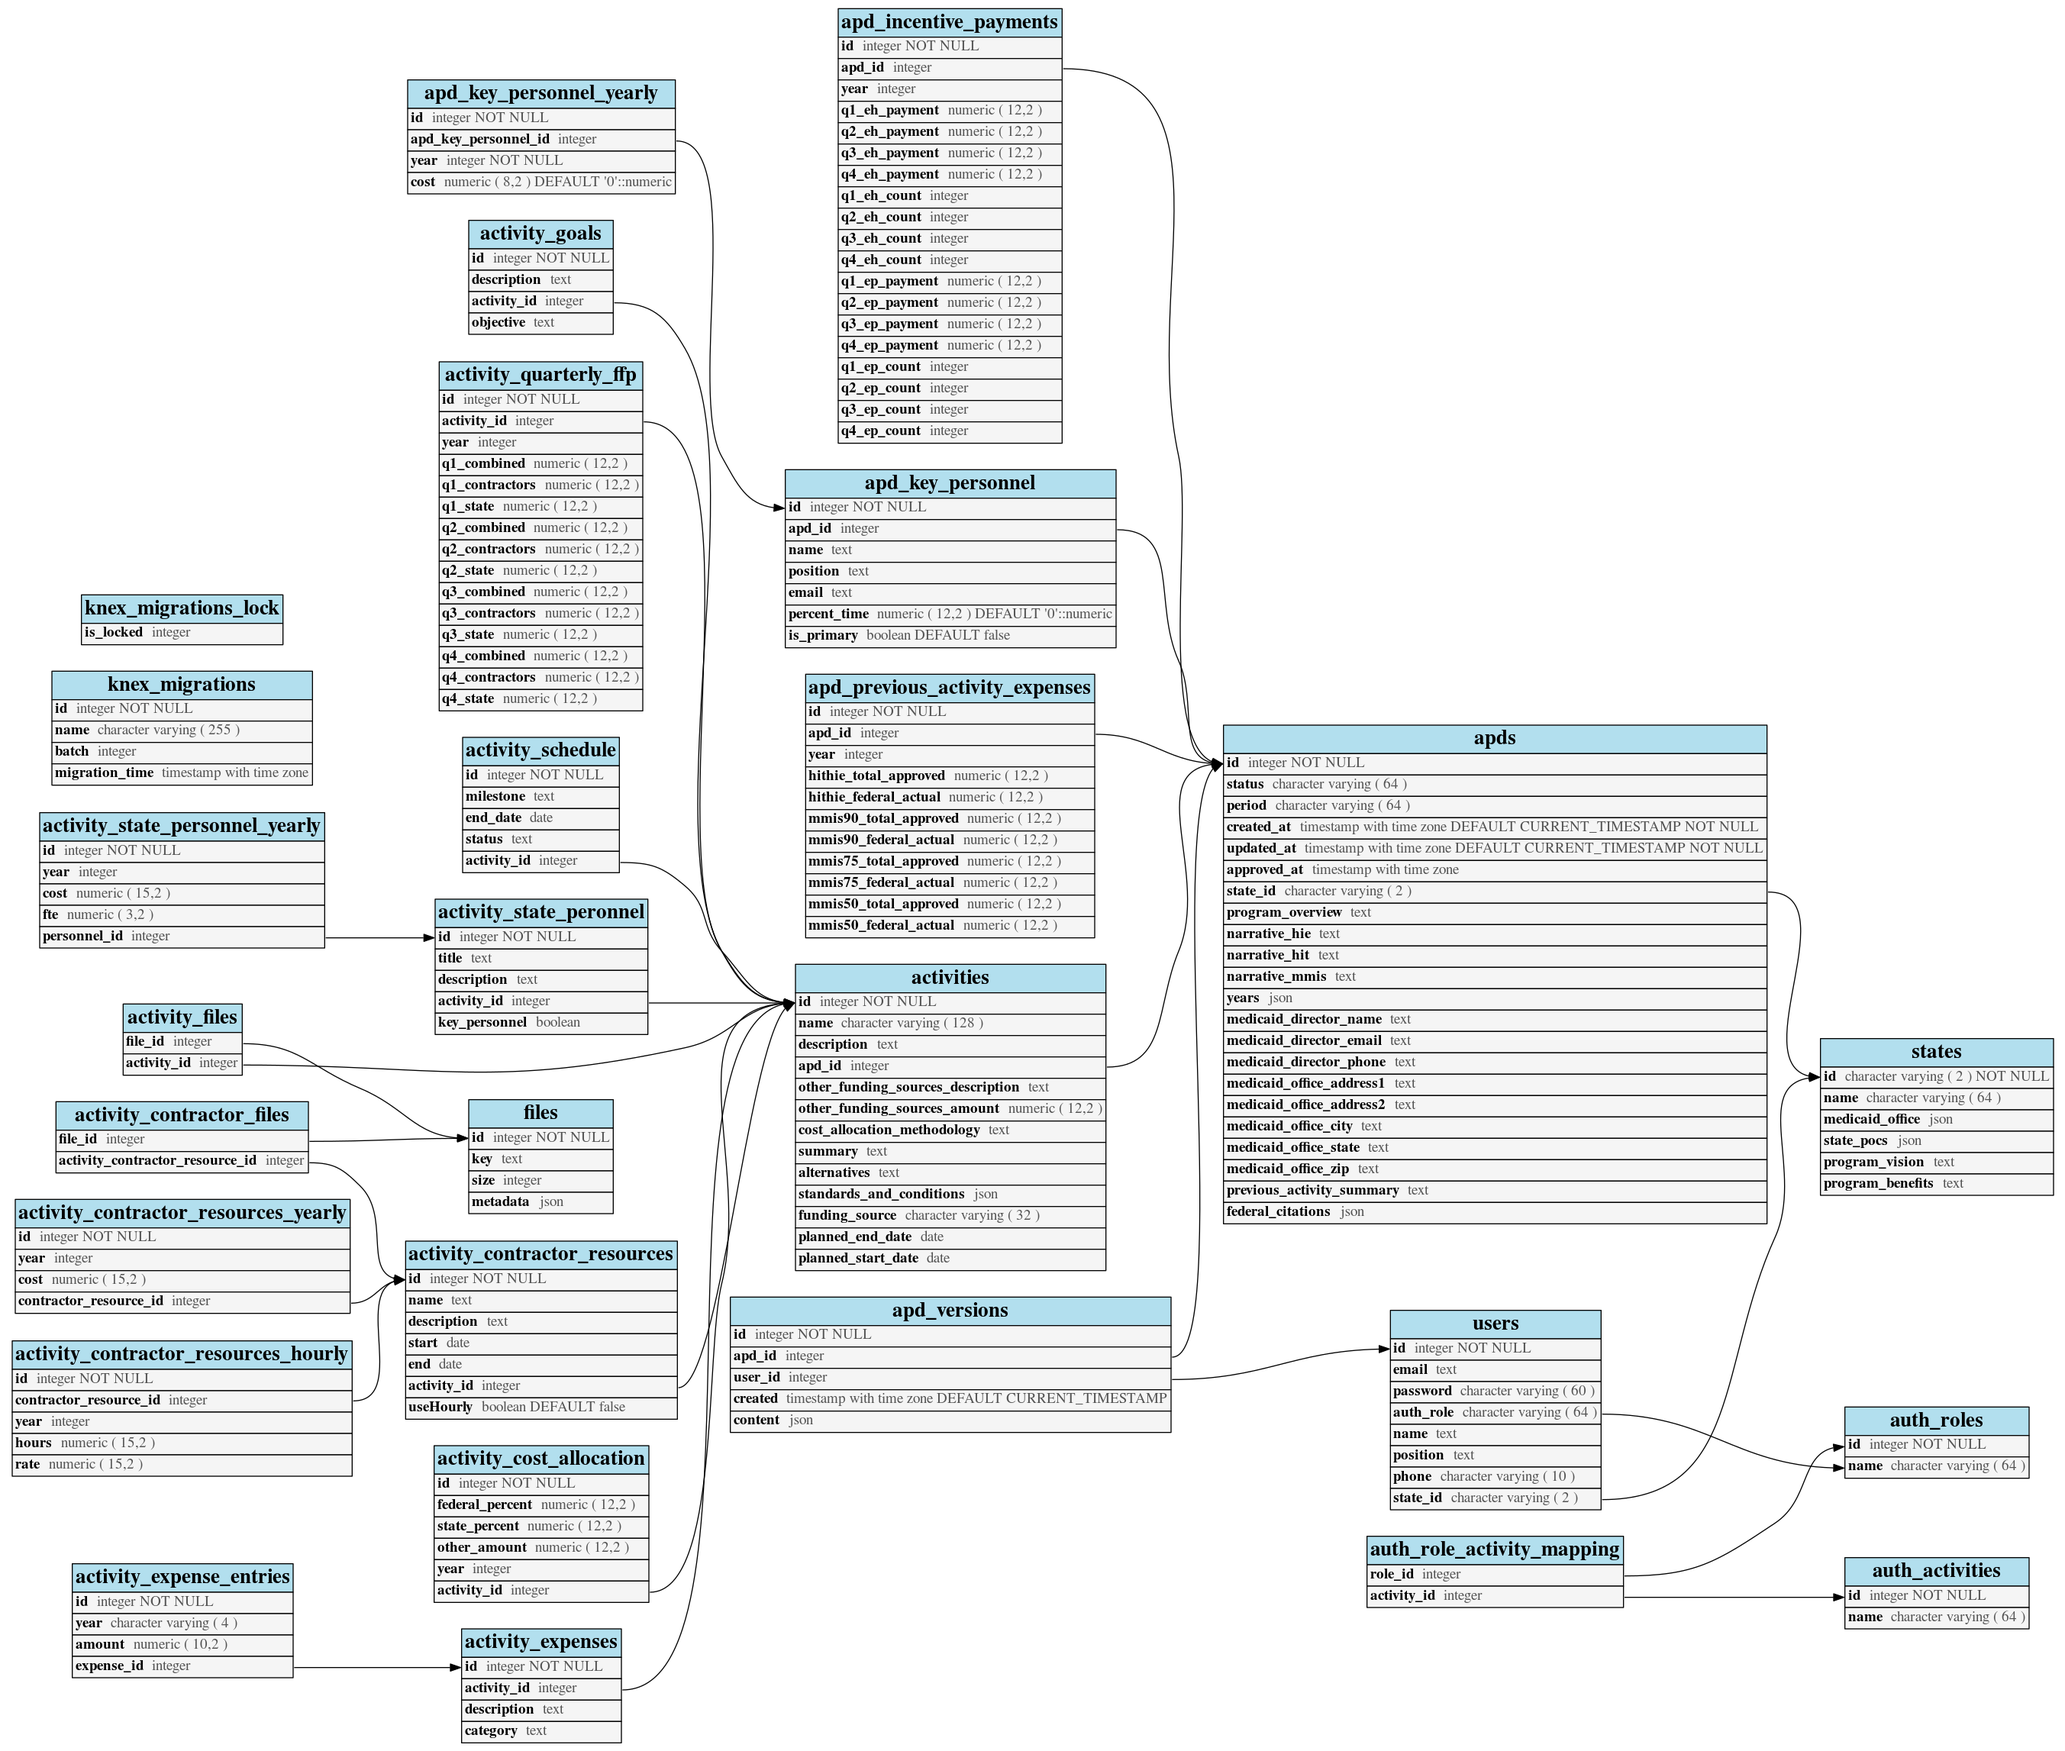
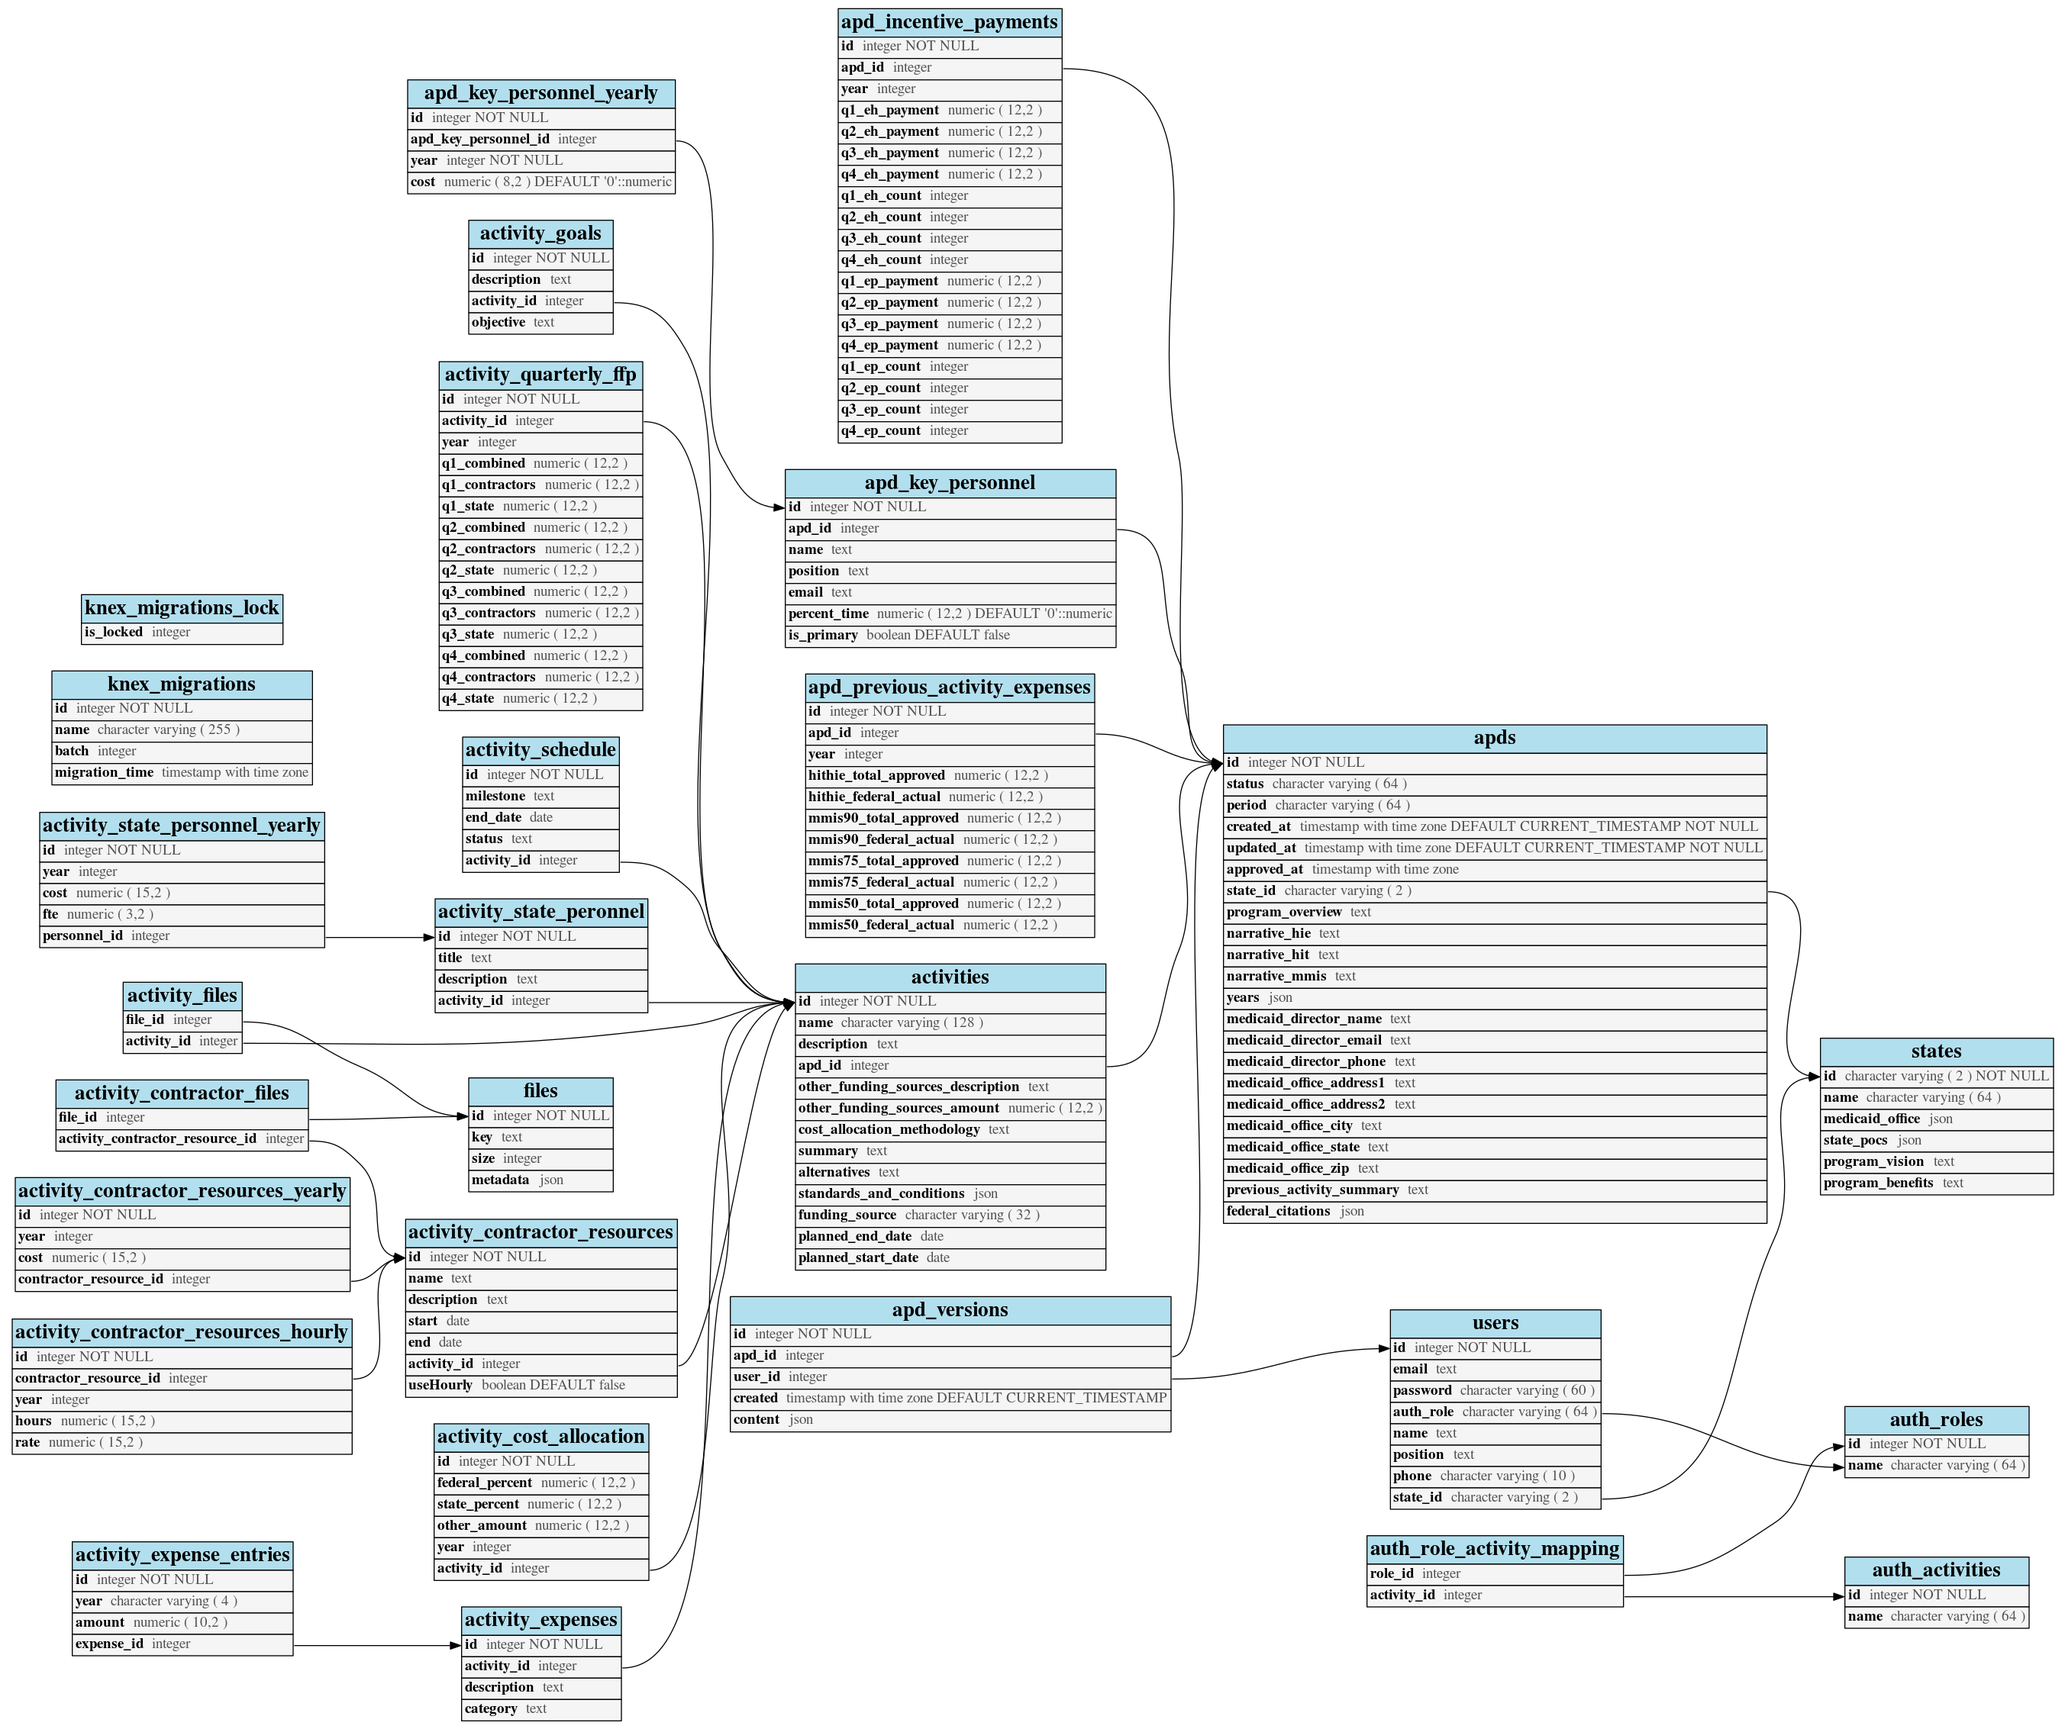
remove key personnel from activity

diff --git a/web/src/containers/activity/StatePersonnel.js b/web/src/containers/activity/StatePersonnel.js
@@ -16,14 +16,7 @@ import { SubsectionChunk } from '../../components/Section';
 import { t } from '../../i18n';
 import { formatDec, formatMoney } from '../../util/formats';
 
-const PersonnelForm = ({
-  person,
-  idx,
-  years,
-  handleChange,
-  handleKeyPersonnel,
-  handleDelete
-}) => (
+const PersonnelForm = ({ person, idx, years, handleChange, handleDelete }) => (
   <div className="mt2 mb3">
     <Btn
       kind="outline"
@@ -42,25 +35,6 @@ const PersonnelForm = ({
         wrapperClass="md-col-7 lg-col-6"
         hideLabel
       />
-    </div>
-    <div className="mb3 md-flex">
-      <Label>Key Personnel</Label>
-      <div>
-        <Btn
-          kind="outline"
-          extraCss={person.isKeyPersonnel ? 'bg-black white' : ''}
-          onClick={handleKeyPersonnel(idx, true)}
-        >
-          Yes
-        </Btn>{' '}
-        <Btn
-          kind="outline"
-          extraCss={person.isKeyPersonnel ? '' : 'bg-black white'}
-          onClick={handleKeyPersonnel(idx, false)}
-        >
-          No
-        </Btn>
-      </div>
     </div>
     <div className="mb3 md-flex">
       <Label>{t('activities.statePersonnel.labels.desc')}</Label>
@@ -106,7 +80,6 @@ PersonnelForm.propTypes = {
   idx: PropTypes.number.isRequired,
   years: PropTypes.array.isRequired,
   handleChange: PropTypes.func.isRequired,
-  handleKeyPersonnel: PropTypes.func.isRequired,
   handleDelete: PropTypes.func.isRequired
 };
 
@@ -130,12 +103,6 @@ class StatePersonnel extends Component {
       { statePersonnel: { [index]: toUpdate } },
       field === 'amt' || field === 'perc'
     );
-  };
-
-  handleKeyPersonnel = (index, bool) => () => {
-    const { activityKey, updateActivity } = this.props;
-    const updates = { statePersonnel: { [index]: { isKeyPersonnel: bool } } };
-    updateActivity(activityKey, updates);
   };
 
   handleAdd = () => {
@@ -182,7 +149,6 @@ class StatePersonnel extends Component {
                   idx={i}
                   years={years}
                   handleChange={this.handleChange}
-                  handleKeyPersonnel={this.handleKeyPersonnel}
                   handleDelete={this.getDeleter(person.key)}
                 />
               )}
@@ -218,4 +184,7 @@ const mapDispatchToProps = {
   updateActivity: updateActivityAction
 };
 
-export default connect(mapStateToProps, mapDispatchToProps)(StatePersonnel);
+export default connect(
+  mapStateToProps,
+  mapDispatchToProps
+)(StatePersonnel);

diff --git a/web/src/util/serialization/activities.test.js b/web/src/util/serialization/activities.test.js
@@ -53,7 +53,6 @@ describe('APD activity serializer', () => {
             id: 'person 1',
             title: 'job title 1',
             description: 'desc 1',
-            keyPersonnel: false,
             years: [
               { year: '2018', cost: 100, fte: 0.5 },
               { year: '2019', cost: 200, fte: 0.8 }
@@ -63,7 +62,6 @@ describe('APD activity serializer', () => {
             id: 'person 2',
             title: 'job title 2',
             description: 'desc 2',
-            keyPersonnel: false,
             years: [
               { year: '2018', cost: 300, fte: 0.3 },
               { year: '2019', cost: 400, fte: 0.6 }
@@ -234,7 +232,6 @@ describe('APD activity serializer', () => {
               key: expect.stringMatching(/[a-f0-9]{8}/),
               title: 'job title 1',
               desc: 'desc 1',
-              isKeyPersonnel: false,
               years: {
                 2018: { amt: 100, perc: 0.5 },
                 2019: { amt: 200, perc: 0.8 }
@@ -245,7 +242,6 @@ describe('APD activity serializer', () => {
               key: expect.stringMatching(/[a-f0-9]{8}/),
               title: 'job title 2',
               desc: 'desc 2',
-              isKeyPersonnel: false,
               years: {
                 2018: { amt: 300, perc: 0.3 },
                 2019: { amt: 400, perc: 0.6 }
@@ -419,7 +415,7 @@ describe('APD activity serializer', () => {
             id: 'eugene',
             title: 'Boss',
             desc: 'friend of the show',
-            isKeyPersonnel: false,
+
             years: {
               '2009': {
                 amt: 99,
@@ -564,7 +560,6 @@ describe('APD activity serializer', () => {
             id: 'eugene',
             title: 'Boss',
             description: 'friend of the show',
-            keyPersonnel: false,
             years: [
               {
                 cost: 99,

diff --git a/web/src/reducers/activities.js b/web/src/reducers/activities.js
@@ -45,7 +45,6 @@ const newStatePerson = years => ({
   key: generateKey(),
   title: '',
   desc: '',
-  isKeyPersonnel: false,
   years: arrToObj(years, statePersonDefaultYear())
 });
 
@@ -291,23 +290,22 @@ const reducer = (state = initialState, action) => {
 
       // if switching to hourly, clear out yearly totals
       // if switch to yearly, clear out hourly numbers
-      const contractorResources = contractorsOld.map(
-        contractor =>
-          contractor.key !== contractorKey
-            ? contractor
-            : {
-                ...contractor,
-                ...(useHourly && {
-                  years: arrToObj(years, contractorDefaultYear())
-                }),
-                hourly: {
-                  ...contractor.hourly,
-                  useHourly,
-                  ...(!useHourly && {
-                    data: arrToObj(years, contractorDefaultHourly())
-                  })
-                }
+      const contractorResources = contractorsOld.map(contractor =>
+        contractor.key !== contractorKey
+          ? contractor
+          : {
+              ...contractor,
+              ...(useHourly && {
+                years: arrToObj(years, contractorDefaultYear())
+              }),
+              hourly: {
+                ...contractor.hourly,
+                useHourly,
+                ...(!useHourly && {
+                  data: arrToObj(years, contractorDefaultHourly())
+                })
               }
+            }
       );
 
       const updates = { byKey: { [key]: { contractorResources } } };

diff --git a/api/db/activity/statePersonnel.test.js b/api/db/activity/statePersonnel.test.js
@@ -15,7 +15,7 @@ tap.test('state personnel data model', async statePersonnelModelTests => {
         activity: Function,
         years: Function,
         static: {
-          updateableFields: ['title', 'description', 'keyPersonnel'],
+          updateableFields: ['title', 'description'],
           owns: { years: 'apdActivityStatePersonnelCost' },
           foreignKey: 'personnel_id'
         }
@@ -78,7 +78,6 @@ tap.test('state personnel data model', async statePersonnelModelTests => {
     self.get.withArgs('id').returns('id field');
     self.get.withArgs('title').returns('title field');
     self.get.withArgs('description').returns('description field');
-    self.get.withArgs('key_personnel').returns('sure');
     self.related.withArgs('years').returns('some times');
 
     const output = personnel.toJSON.bind(self)();
@@ -87,7 +86,6 @@ tap.test('state personnel data model', async statePersonnelModelTests => {
       id: 'id field',
       title: 'title field',
       description: 'description field',
-      keyPersonnel: 'sure',
       years: 'some times'
     });
   });

diff --git a/web/src/util/serialization/activities.js b/web/src/util/serialization/activities.js
@@ -65,7 +65,6 @@ export const toAPI = activityState => {
       id: s.id,
       title: s.title,
       description: s.desc,
-      keyPersonnel: s.isKeyPersonnel,
       years: Object.keys(s.years).map(year => ({
         cost: +s.years[year].amt,
         fte: +s.years[year].perc,
@@ -187,7 +186,6 @@ export const fromAPI = (activityAPI, years) => {
       id: s.id,
       title: s.title,
       desc: s.description,
-      isKeyPersonnel: s.keyPersonnel || false,
       years: s.years.reduce(
         (acc, y) => ({
           ...acc,

diff --git a/api/db/activity/statePersonnel.js b/api/db/activity/statePersonnel.js
@@ -25,13 +25,12 @@ module.exports = {
         id: this.get('id'),
         title: this.get('title'),
         description: this.get('description'),
-        keyPersonnel: this.get('key_personnel'),
         years: this.related('years')
       };
     },
 
     static: {
-      updateableFields: ['title', 'description', 'keyPersonnel'],
+      updateableFields: ['title', 'description'],
       owns: { years: 'apdActivityStatePersonnelCost' },
       foreignKey: 'personnel_id'
     }

diff --git a/web/src/reducers/activities.test.js b/web/src/reducers/activities.test.js
@@ -47,7 +47,6 @@ describe('activities reducer', () => {
     key: keyFn(),
     desc: '',
     title: '',
-    isKeyPersonnel: false,
     years: { '1973': { amt: '', perc: '' }, '1974': { amt: '', perc: '' } }
   });
 

diff --git a/api/migrations/20181119221918_remove-activity-key-personnel.js b/api/migrations/20181119221918_remove-activity-key-personnel.js
@@ -1,0 +1,6 @@
+exports.up = async knex =>
+  knex.schema.alterTable('activity_state_peronnel', table => {
+    table.dropColumn('key_personnel');
+  });
+
+exports.down = async () => {};
